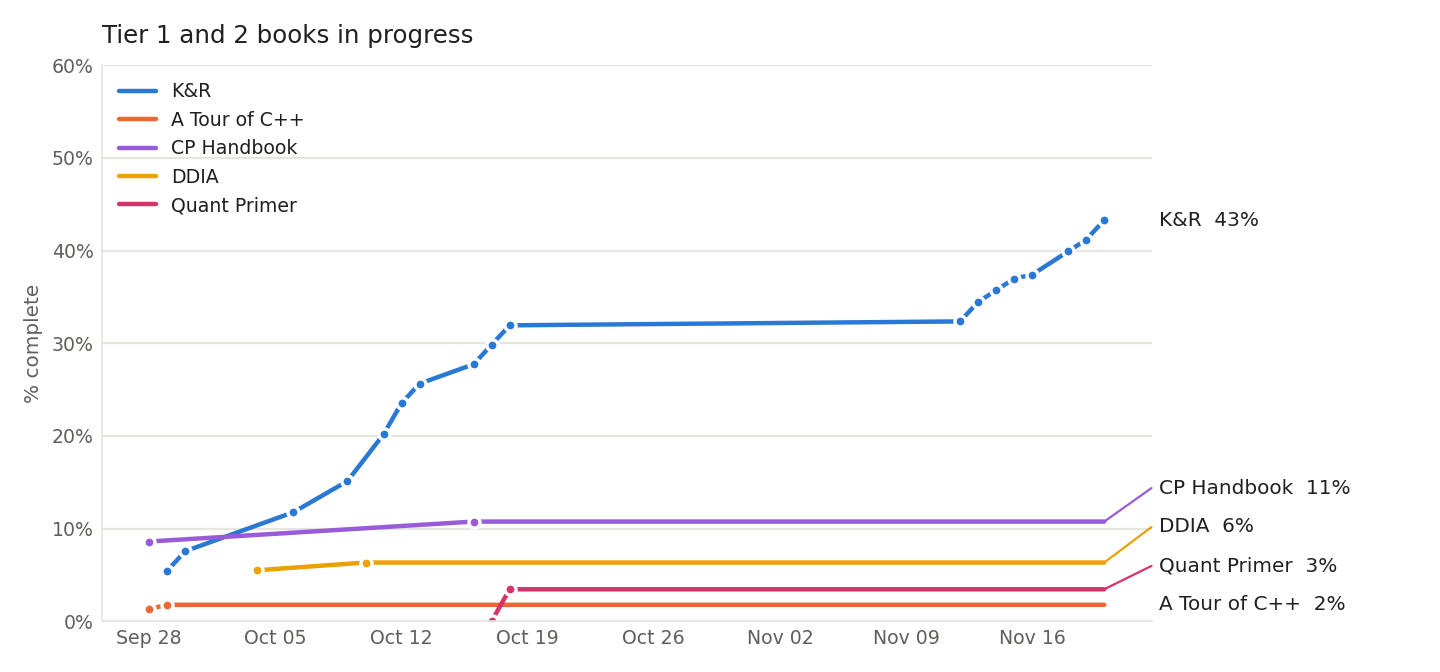
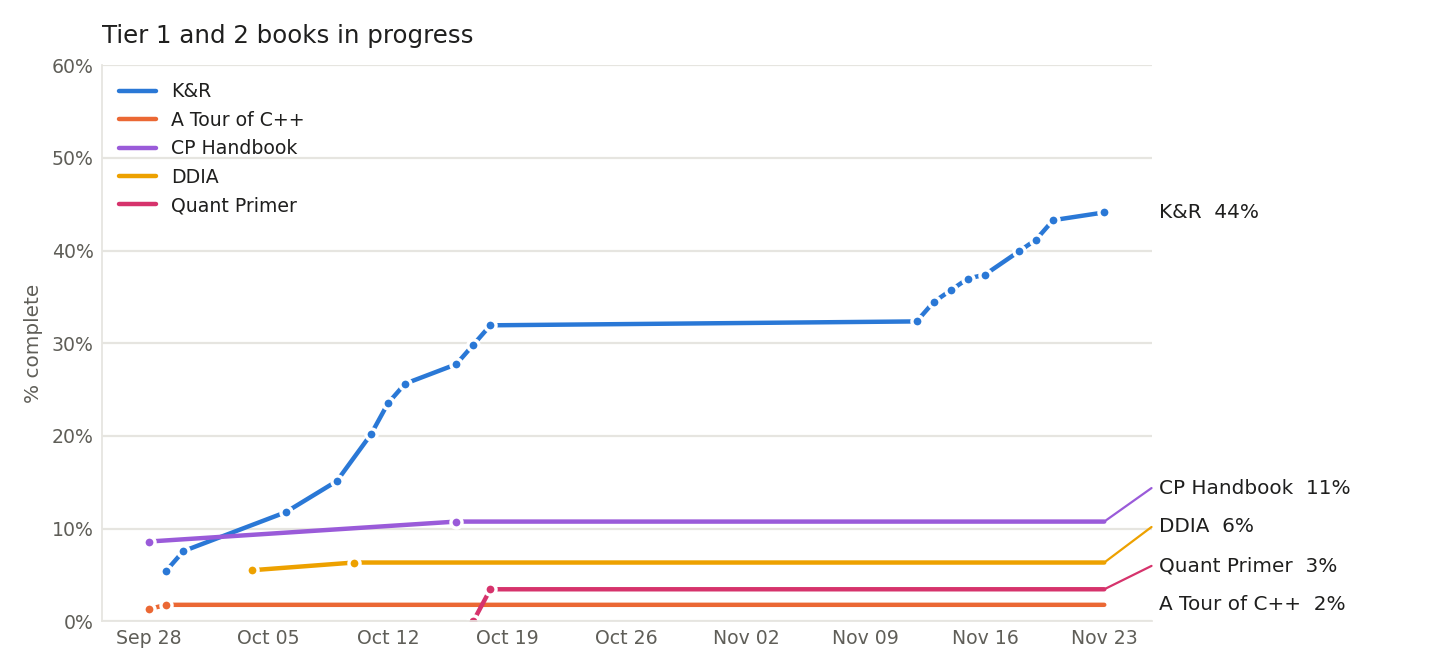
Log K&R progress, 105 pages read, in 5.10

diff --git a/tracks/quant.md b/tracks/quant.md
@@ -8,8 +8,8 @@
   memmove over contiguous memory that runs at many GB/s. For a few hundred elements it is often faster than a skip list's
   pointer chasing, allocations, and random-level logic. Big-O hides constant factors and cache behavior. Read K&R for the
   memory model, pointers, and arrays; the cache-locality half of the lesson belongs to the low-latency book in the career track.
-  Log: 2026-09-29 started, read to page 13. 2026-09-30 to page 18. 2026-10-06 to page 28. 2026-10-09 to page 36, finished chapter 1. 2026-10-11 to page 41 (through 2.6), then read 2.8 through 2.12 with 2.7 skipped. 2026-10-12 backfilled 2.7, chapter 2 done, then to page 56. 2026-10-13 to page 61, chapter 3 done. 2026-10-16 to page 66, 4.2 done. 2026-10-17 to page 71, 4.3 done (reverse Polish calculator). 2026-10-18 to page 76, 4.8 done. 2026-11-12 to page 77, first page back after a 25-day break. 2026-11-13 to page 82, chapter 4 done (4.9 to 4.11: initialization, recursion, preprocessor). 2026-11-14 to page 85, into chapter 5. 2026-11-15 to page 88. 2026-11-16 to page 89, 5.3 done. 2026-11-18 to page 92, 5.4 done (address arithmetic, alloc and afree), then to page 95, 5.5 done (strcpy, strcmp). 2026-11-19 to page 98, 5.6 done (line sort with pointer arrays). 2026-11-20 to page 103, 5.7 to 5.9 done (multi-dimensional arrays, pointer array initialization, pointers vs. multi-dimensional arrays) and into 5.10. Currently on
-  page 104 of 238 (43%), section 5.10 Command-line Arguments.
+  Log: 2026-09-29 started, read to page 13. 2026-09-30 to page 18. 2026-10-06 to page 28. 2026-10-09 to page 36, finished chapter 1. 2026-10-11 to page 41 (through 2.6), then read 2.8 through 2.12 with 2.7 skipped. 2026-10-12 backfilled 2.7, chapter 2 done, then to page 56. 2026-10-13 to page 61, chapter 3 done. 2026-10-16 to page 66, 4.2 done. 2026-10-17 to page 71, 4.3 done (reverse Polish calculator). 2026-10-18 to page 76, 4.8 done. 2026-11-12 to page 77, first page back after a 25-day break. 2026-11-13 to page 82, chapter 4 done (4.9 to 4.11: initialization, recursion, preprocessor). 2026-11-14 to page 85, into chapter 5. 2026-11-15 to page 88. 2026-11-16 to page 89, 5.3 done. 2026-11-18 to page 92, 5.4 done (address arithmetic, alloc and afree), then to page 95, 5.5 done (strcpy, strcmp). 2026-11-19 to page 98, 5.6 done (line sort with pointer arrays). 2026-11-20 to page 103, 5.7 to 5.9 done (multi-dimensional arrays, pointer array initialization, pointers vs. multi-dimensional arrays) and into 5.10. 2026-11-23 to page 105, still in 5.10 (find with -x and -n flags). Currently on
+  page 106 of 238 (44%), section 5.10 Command-line Arguments.
 - [~] **A Tour of C++** by Bjarne Stroustrup (Tier 1)
   Fast, authoritative overview of modern C++. Second priority overall, after K&R. Also pays off directly in competitive programming.
   Plan (started 2026-09-28): one pass, no re-reading. Chapters 1 to 8 (core language) at one chapter per sitting with a

diff --git a/README.md b/README.md
@@ -15,7 +15,7 @@ Personal reading list across three tracks. Each track lives in its own file unde
 <!-- progress:start -->
 | Book | Progress | | Unit |
 |---|---|---|---|
-| K&R | `█████████░░░░░░░░░░░` | 43% | 103 of 238 pages |
+| K&R | `█████████░░░░░░░░░░░` | 44% | 105 of 238 pages |
 | A Tour of C++ | `░░░░░░░░░░░░░░░░░░░░` | 2% | 4 of 226 pages |
 | CP Handbook | `██░░░░░░░░░░░░░░░░░░` | 11% | 30 of 279 pages |
 | DDIA | `█░░░░░░░░░░░░░░░░░░░` | 6% | 38 of 600 pages |
